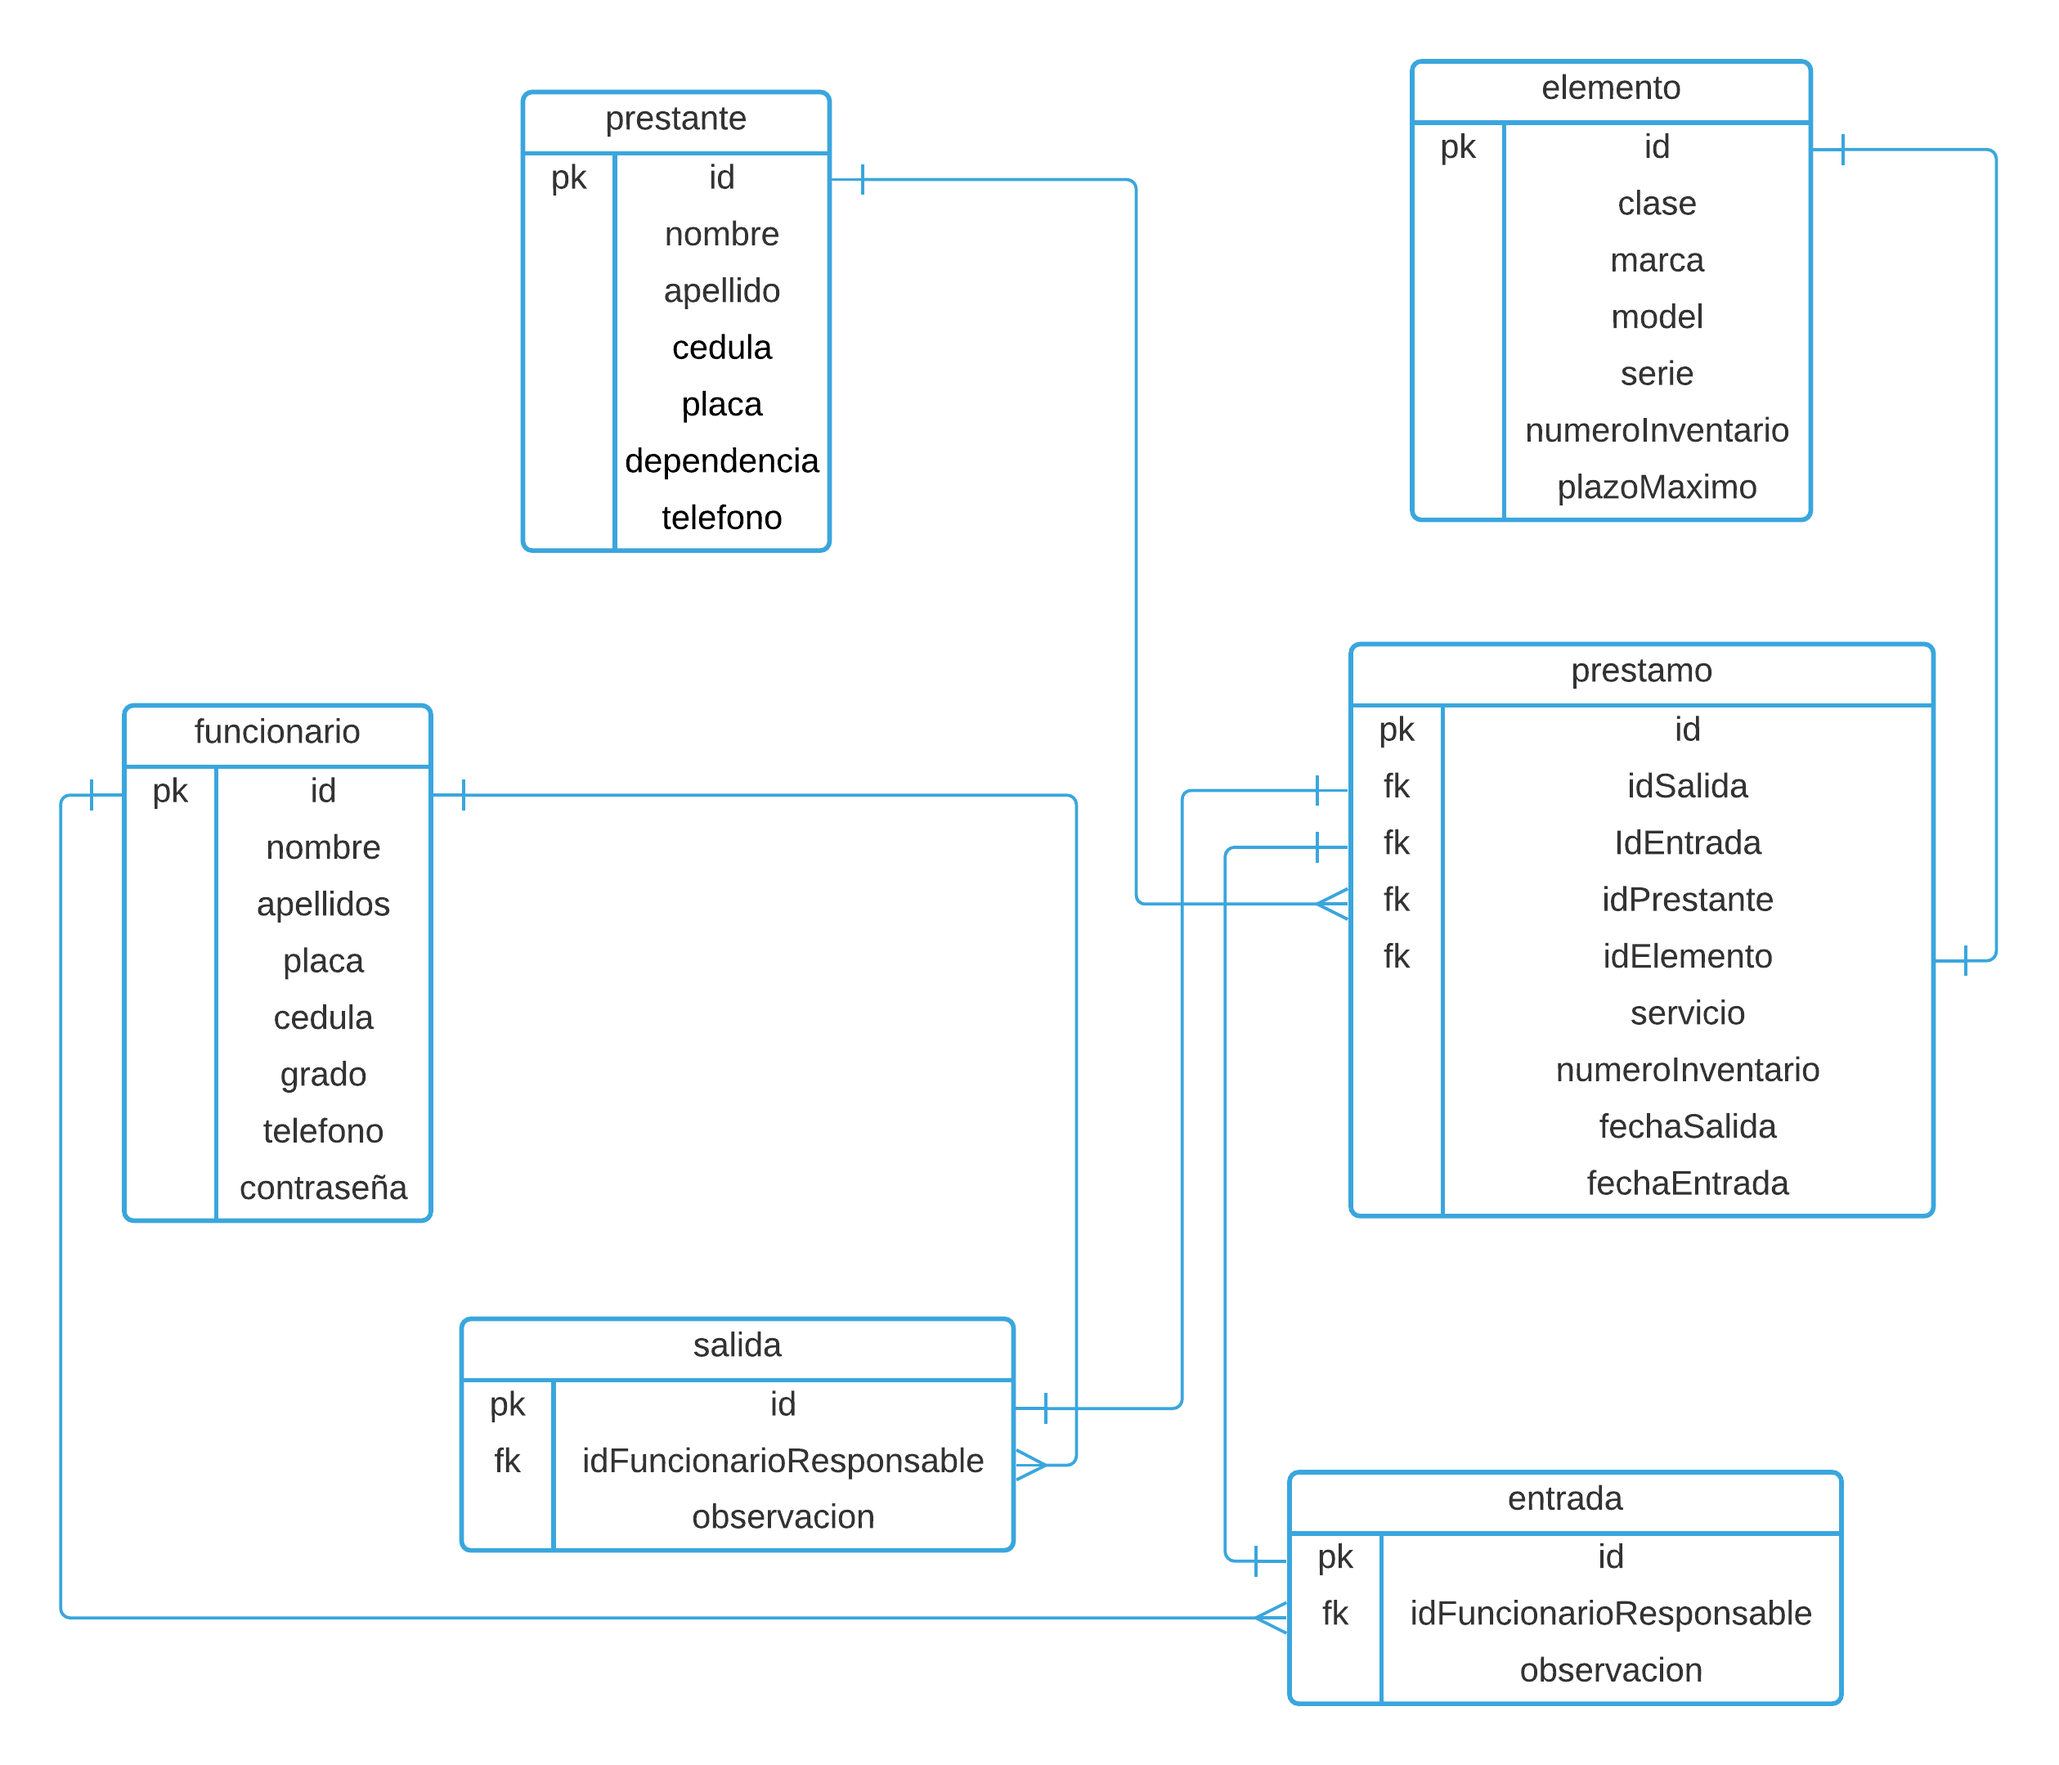
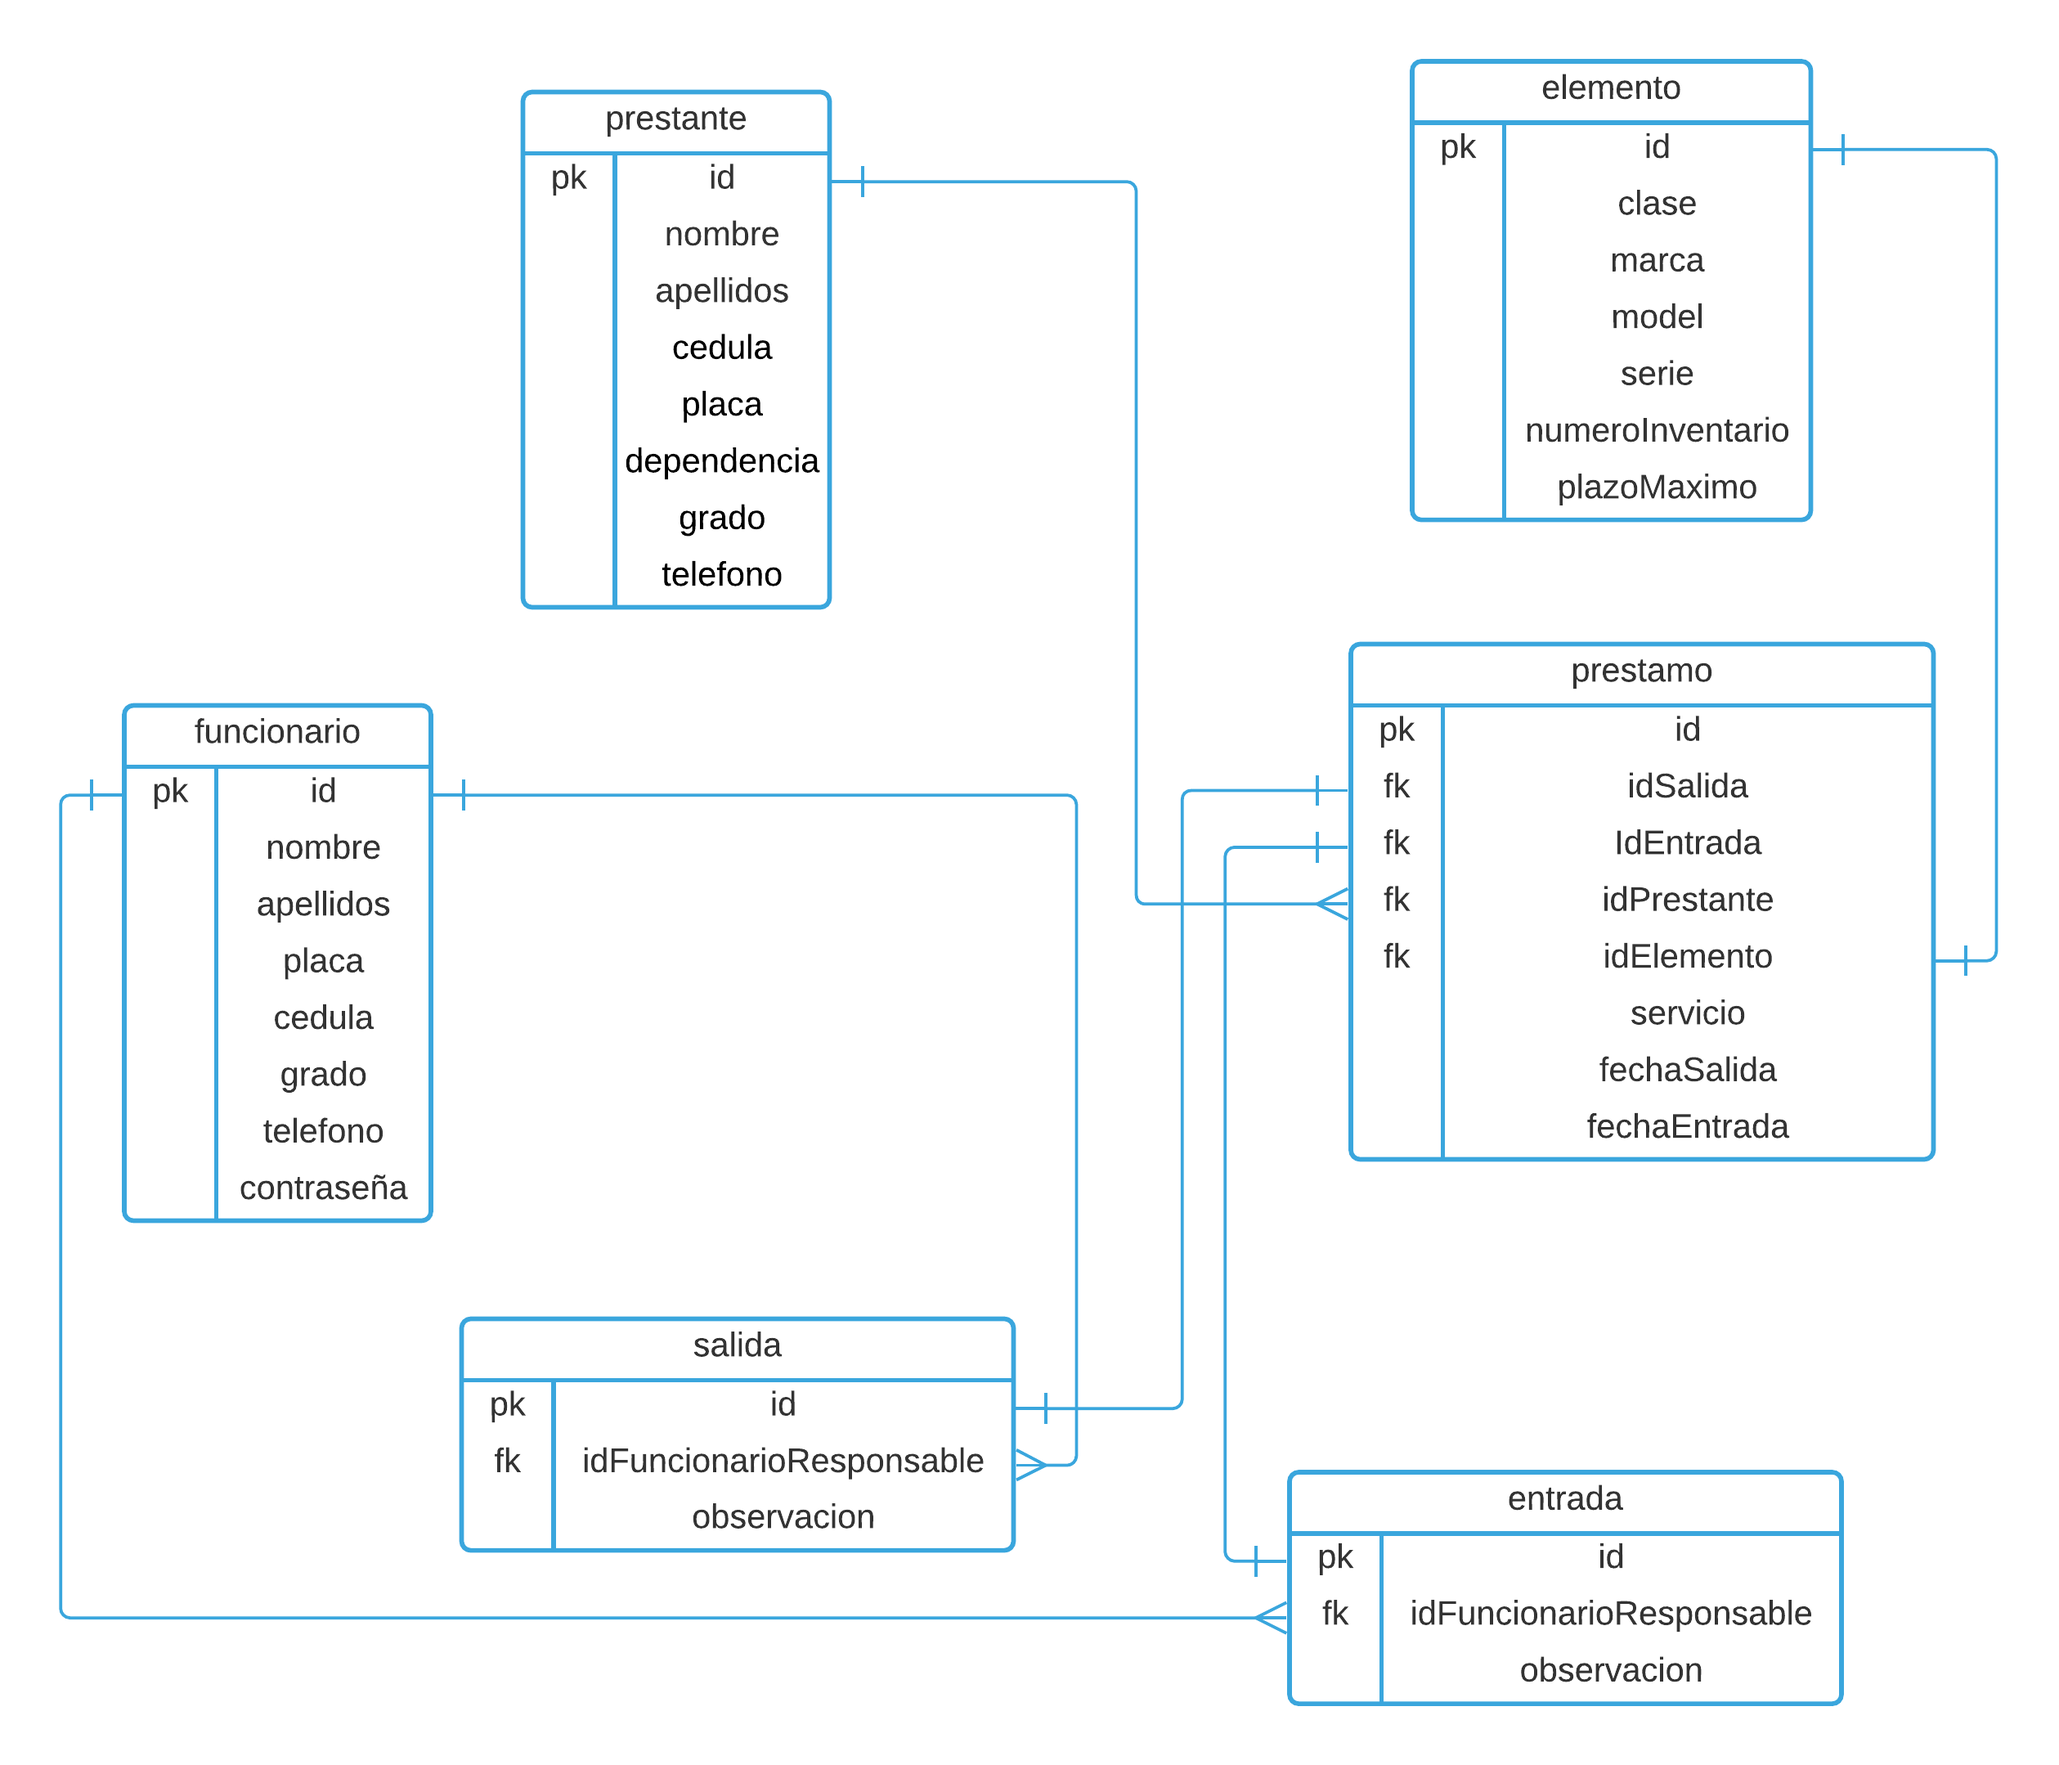
Diagrama y especificaciones del proyecto

diff --git a/README.md b/README.md
@@ -1,9 +1,101 @@
-# admalmacen
+# Administrador de almacen de telematica de la policia
+
+Bueno esta nota es para el equipo de desarrollo. aqui voy a dejar las especificaciones consignadas sobre lo que nos dijo carlos con respecto a lo que quiere con la aplicacion
+
+## Entidades
+
+para el proyecto se crearon 6 modelos correspondiendo a las necesidades del proyecto.
+
+a continuacion una breve explicación
+
+### Funcionario
+
+> Atributos
+
+- id (reservado para mongodb)
+- nombre
+- apellidos
+- placa
+- cedula
+- grado
+- telefono
+- contraseña (como un hash encriptado en base a sha2)
+
+es el usuario principal de la aplicacion, este tiene los datos basicos, se relaciona con las salidas y entradas ya que este es el que las consigna en la base de datos.
+
+### Prestante
+
+> Atributos
+
+- id (reservado para mongodb)
+- nombre
+- apellidos
+- cedula
+- placa
+- dependencia
+- grado
+- telefono
+
+Esta entidad hace referencia a los funcionarios que soliciten los prestamos de elementos solo pueden ser dados de baja si y solo si no tienen prestamos a su nombre.
+
+### elemento
+
+> Atributos
+
+- id (reservado para mongodb)
+- clase
+- marca
+- modelo
+- serie
+- numeroInventario (Numero de referencia dentro del almacen)
+- plazomaximo
+
+Esta entidad hace referencia a los elementos guardados dentro del inventario del almacen ya que su numero de inventario es unico no deben haber elementos duplicados y tampoco elementos prestados en varios prestamos activos
+
+### prestamo
+
+> atributos
+
+- id (reservado para mongodb)
+- idSalida
+- idEntrada
+- idPrestante
+- idElemento
+- servicio
+- fechaSalida
+- fechaEntrada
+
+Esta entidad encapsula la funcion principal de la aplicacion la cual es gestionar los prestamos de elementos, tiene un id de salida y entrada ya que carlos especifico que se puedan escribir observaciones sobre el estado de salida y entrada de elementos
+
+
+### salida
+
+> atributos
+
+- id (reservado para mongodb)
+- idFuncionarioResponsable
+- observacion
+
+Entidad que sirve para referenciar el inicio de un prestamo
+
+### Entrada
+
+> atributos
+
+- id (reservado para mongodb)
+- idFuncionarioResponsable
+- observacion
+
+Entidad que sirve para referenciar la finalizacion de un prestamo
+
+## Info loopBack
+
+Un poco de documentacion que viene con la inicializacion de loopback
 
 This application is generated using [LoopBack 4 CLI](https://loopback.io/doc/en/lb4/Command-line-interface.html) with the
 [initial project layout](https://loopback.io/doc/en/lb4/Loopback-application-layout.html).
 
-## Install dependencies
+### Install dependencies
 
 By default, dependencies were installed when this application was generated.
 Whenever dependencies in `package.json` are changed, run the following command:
@@ -18,7 +110,7 @@ To only install resolved dependencies in `package-lock.json`:
 npm ci
 ```
 
-## Run the application
+### Run the application
 
 ```sh
 npm start
@@ -28,7 +120,7 @@ You can also run `node .` to skip the build step.
 
 Open http://127.0.0.1:3000 in your browser.
 
-## Rebuild the project
+### Rebuild the project
 
 To incrementally build the project:
 
@@ -42,7 +134,7 @@ To force a full build by cleaning up cached artifacts:
 npm run rebuild
 ```
 
-## Fix code style and formatting issues
+### Fix code style and formatting issues
 
 ```sh
 npm run lint
@@ -54,20 +146,20 @@ To automatically fix such issues:
 npm run lint:fix
 ```
 
-## Other useful commands
+### Other useful commands
 
 - `npm run migrate`: Migrate database schemas for models
 - `npm run openapi-spec`: Generate OpenAPI spec into a file
 - `npm run docker:build`: Build a Docker image for this application
 - `npm run docker:run`: Run this application inside a Docker container
 
-## Tests
+### Tests
 
 ```sh
 npm test
 ```
 
-## What's next
+### What's next
 
 Please check out [LoopBack 4 documentation](https://loopback.io/doc/en/lb4/) to
 understand how you can continue to add features to this application.
